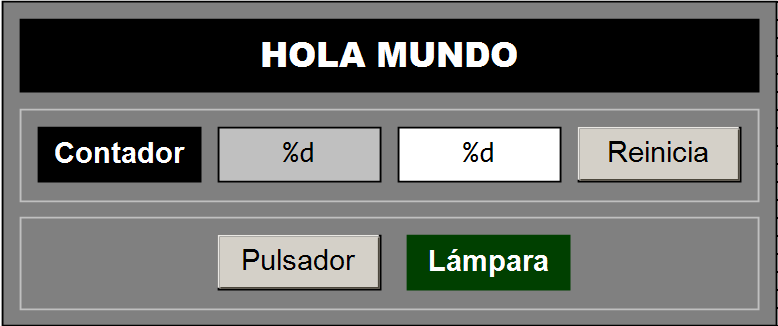
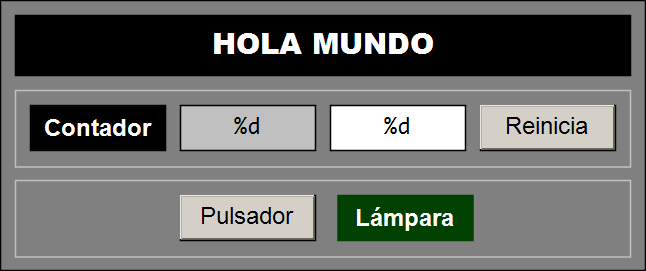
docs(README): revisar contenido
Recortar la imagen V_Hola_Mundo.png

diff --git a/README.md b/README.md
@@ -1,41 +1,67 @@
 # 👋 Hola Mundo (TwinCAT 3)
 
-El proyecto Demo pretende ser un **Hola Mundo** para **autómatas programables (PLC)**.
+## 📝 Descripción del Proyecto
 
-Es un proyecto mínimo y funcional, que muestra la declaración y el uso básico de variables booleanas y enteras, ubicadas en los espacios de memoria de marcas, imagen de entrada e imagen de salida. Cubriendo los elementos esenciales de programación de los lenguajes de la norma **IEC 61131-3** para la programación de PLC.
+Este proyecto es el **Hola Mundo** de la programación de **autómatas programables (PLC)**. 
 
-![Imagen](../images/02_tc3_demo/VISU_Demo.png){width=240px}
+El proyecto **Hola Mundo** se ha desarrollado en el entorno **TwinCAT 3** empleando el lenguaje **Texto Estructurado (ST)** conforme a la norma **IEC 61131-3**.
 
-Este proyecto incluye además, una **visualización** elemental que permite interactuar con las variables del proyecto, con objetos gráficos. **Formas rectangulares** para mostrar el valor de variables booleanas y numéricas y **botones** para modificar el valor de variables booleanas y numéricas.
+Hola Mundo es un proyecto mínimo y funcional, que muestra la declaración y el uso básico de variables booleanas y enteras, ubicadas en los espacios de memoria de marcas, imagen de entrada e imagen de salida. Cubriendo los elementos esenciales de programación del lenguaje ST de la norma **IEC 61131-3** para la programación de PLC.
 
-### Código
+![Imagen](./assets/V_Hola_Mundo.png){width=430px}
 
-!!! info "Declaración"
+Este proyecto incluye además, una **visualización** elemental que permite, mediante objetos gráficos, interactuar con las variables del proyecto. Utilizando **formas rectangulares**, para mostrar el valor de variables booleanas y numéricas, y **botones**, para modificar el valor de variables booleanas y numéricas.
+
+---
+
+### Estructura (simplificada) del Proyecto PLC (POUs):
+
+```text
+TC3_Hola_Mundo/
+├── TC3_Hola_Mundo.sln             <-- Solución de Visual Studio
+└── TC3_Hola_Mundo/                <-- Proyecto TwinCAT
+    └── Hola_Mundo_PLC/            <-- Proyecto PLC
+        ├── POUs/
+        │   └── MAIN.TcPOU         <-- Programa principal (Código ST)
+        └── VISUs/
+            └── V_Hola_Mundo.TcVISU <-- Interfaz gráfica (Visualización)
+            
+```
+--- 
+
+## Código
+
+!!! info "Parte de Declaración"
     ```iecst
-    PROGRAM MAIN
+    // Hola Mundo de la Programación de PLCPROGRAM MAIN
     VAR
-        ContadorCiclos    : UINT; // Variable numérica en el espacio de marcas
-        i_Pulsador AT %I* : BOOL; // Variable booleana en la imagen de entrada
-        o_Lampara  AT %Q* : BOOL; // Variable booleana en la imagen de salida
+        ContadorCiclos: UINT;
+        i_Pulsador AT %I*: BOOL;
+        o_Lampara  AT %Q*: BOOL;
     END_VAR
     ```
 
-!!! info "Código"
+!!! info "Parte de Implementación"
     ```iecst
-    // Uso de una variable numérica (se incrementa con cada ciclo de ejecución)
     ContadorCiclos := ContadorCiclos + 1;
-
-    // Uso de variables de entrada y salida booleanas (copia la entrada en la salida)
     o_Lampara := i_Pulsador;
     ```
 
-### Comentarios
+---
 
-- La variable `ContadorCiclos` se incrementa indefinidamente una vez por ciclo básico de ejecución del PLC (10 ms).
+## Comentarios
+
+- La interfaz del programa `MAIN` (cabecera y definición de variables) se define en la **Parte de Declaración**. 
+- Los **comentarios** de una línea empiezan con `//`.
+- La variable `ContadorCiclos` se declara como un entero sin signo (`UINT`).
+- La variable `i_Pulsador` se declara como un **booleano** (`BOOL`) y se localiza dinámicamente en la **Imagen de Entrada** (`AT %I*`).
+- La variable `o_Lampara` se declara como un **booleano** (`BOOL`) y se localiza dinámicamente en la **Imagen de Salida** (`AT %Q*`).
+- La variable `ContadorCiclos` se incrementa indefinidamente una vez por **Ciclo Básico** de ejecución del PLC (10 ms).
+- El código del módulo, en lenguaje ST, se incluyue en la **Parte de Implementación**.
 - La variable de salida `o_Lampara` copia, continuamente, el valor de la variable de entrada `i_Pulsador`.
 - El valor de la variable `ContadorCiclos` se muestra en rectángulo gris la visualización.
 - El valor de la variable `ContadorCiclos` se se puede cambiar escribiéndolo en rectángulo blanco la visualización.
-- La variable `ContadorCiclos` puede reiniciarse si se acciona el pulsador `Reinicia`.
+- La variable `ContadorCiclos` puede reiniciarse accionando el pulsador `Reinicia`.
 - El valor de la variable `o_Lampara` se muestra con el cambio de color del rectángulo `Lampara` (verde claro = `FALSE`, verde oscuro = `TRUE`).
 - El valor de la variable `i_Pulsador` cambia cuando se acciona el botón `Pulsador`.
 
